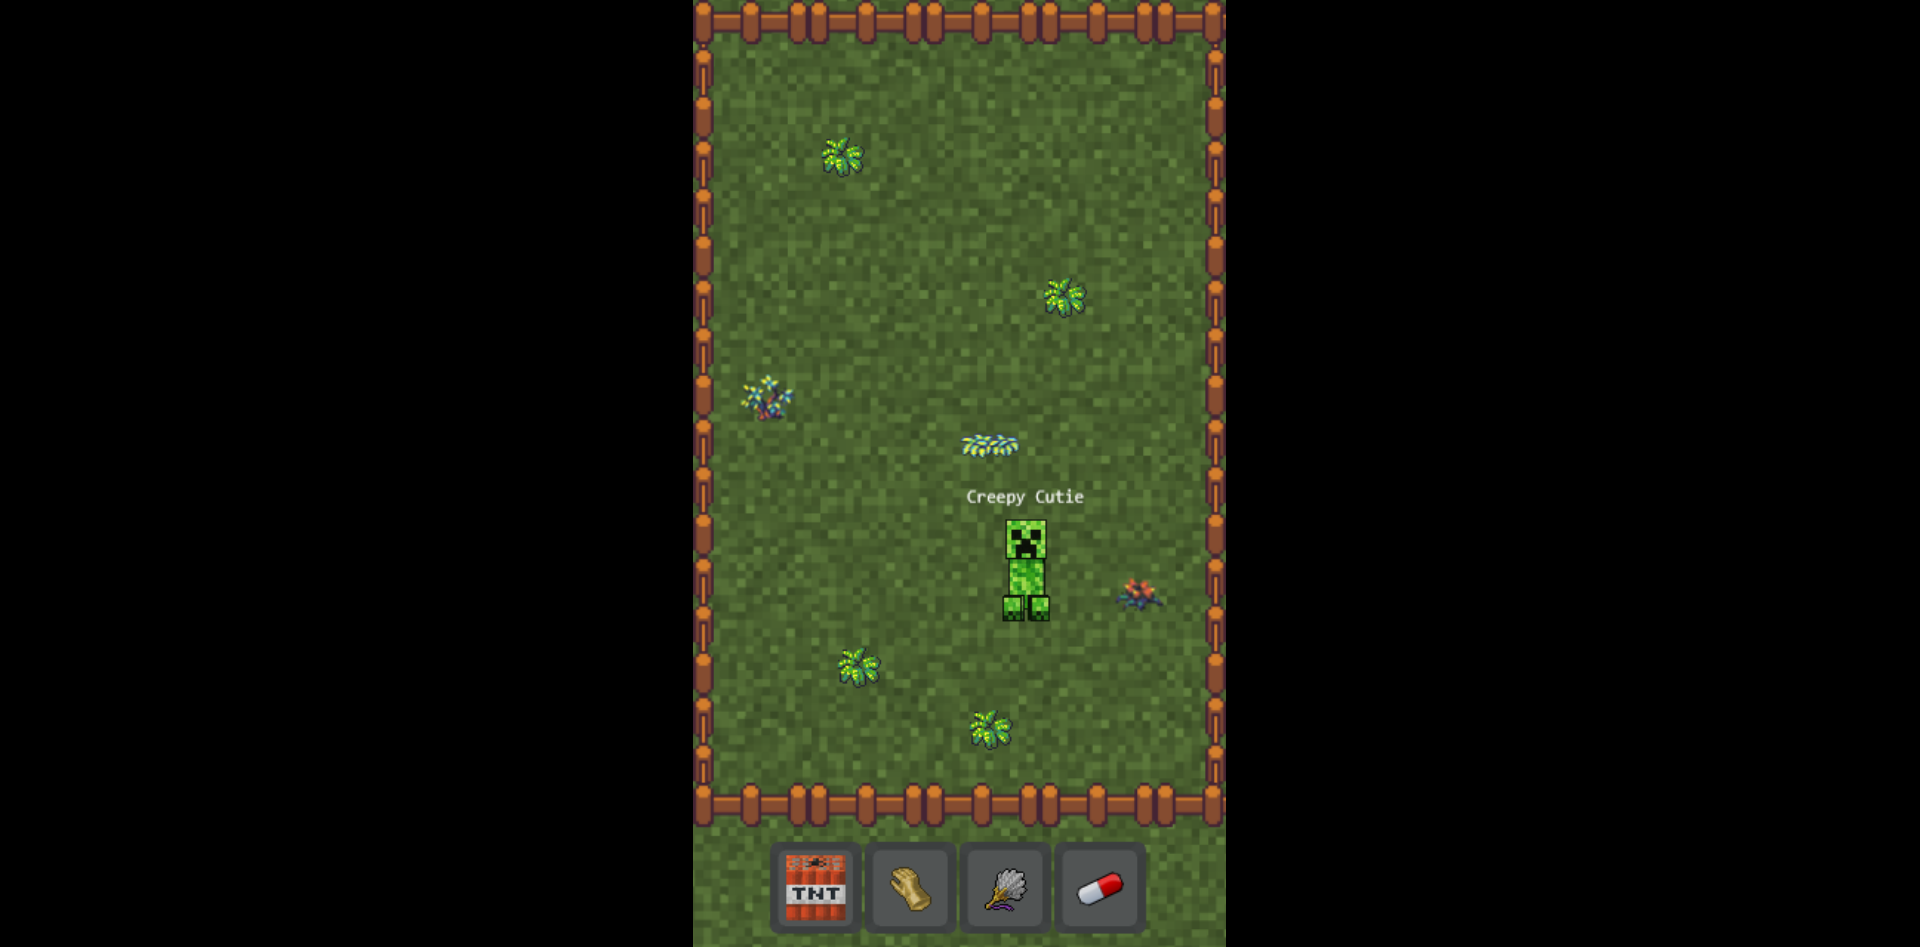
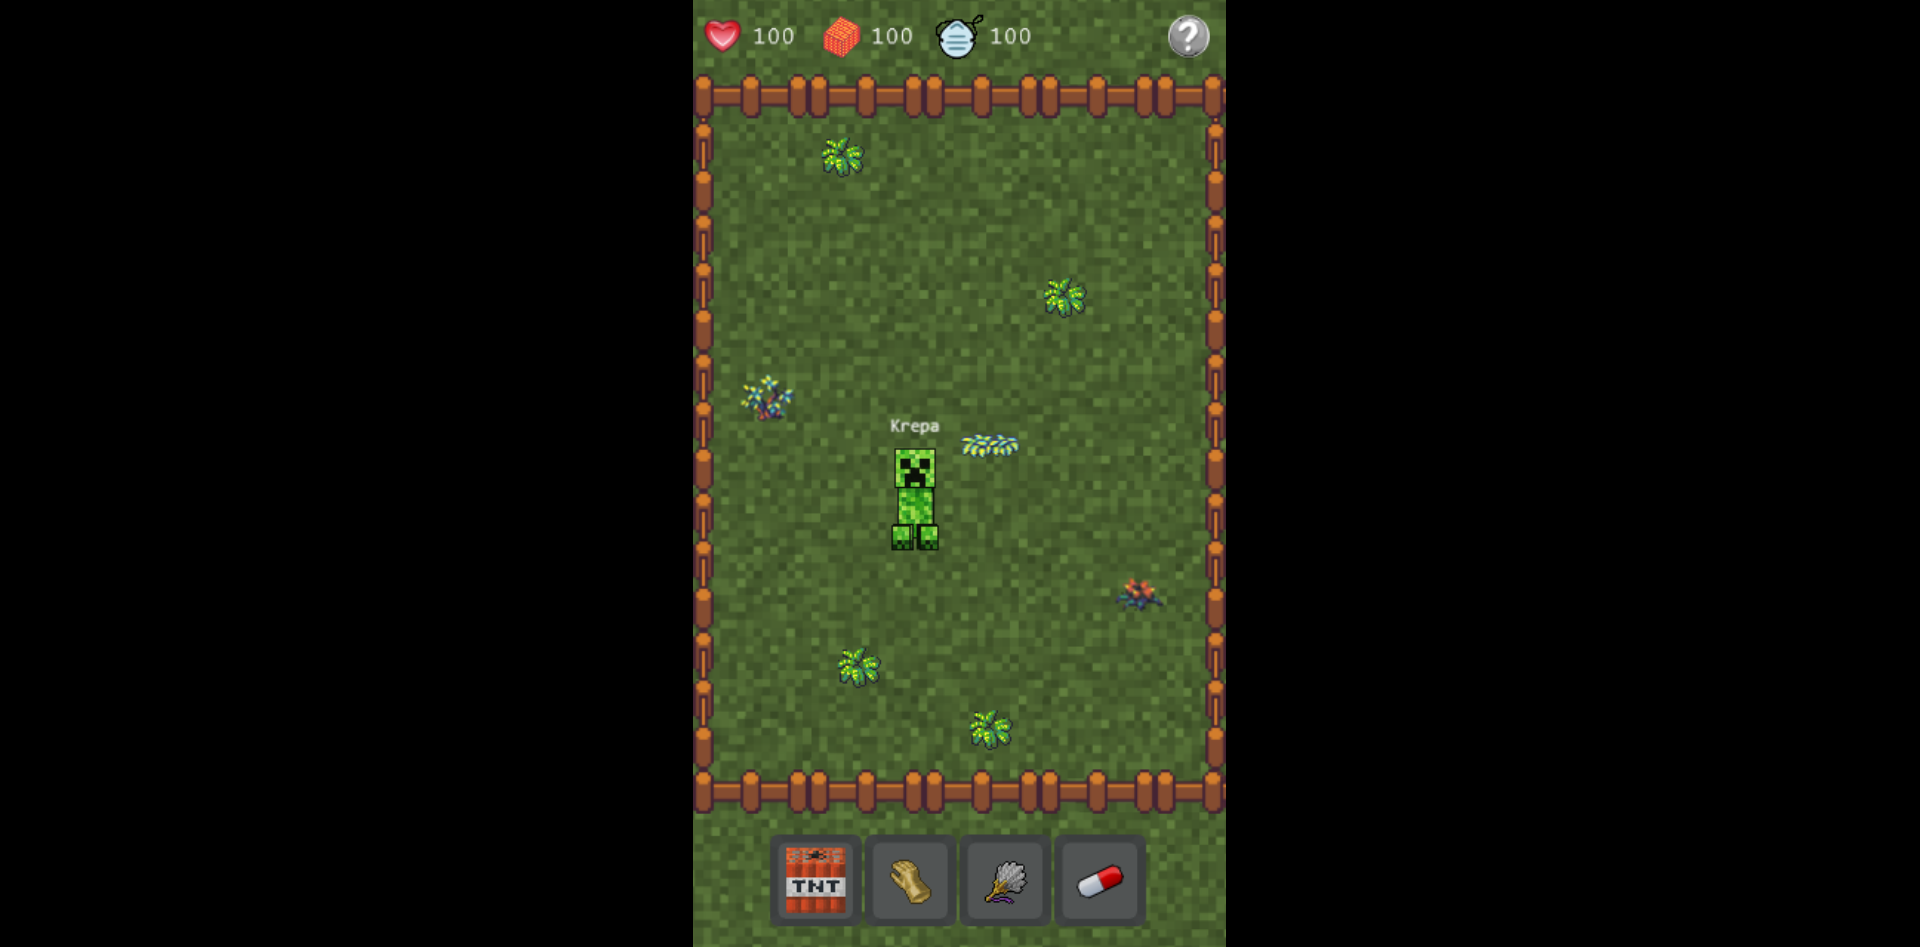
Stats menu & about info

Changed region(s): [[0.3438, 0.0, 0.6562, 1.0], [0.4375, 0.4287, 0.5625, 0.6737], [0.5625, 0.9187, 0.5938, 0.9493]]

diff --git a/public/game/game.js b/public/game/game.js
@@ -9,6 +9,11 @@ class MyGame extends Phaser.Scene {
             this.load.image('hand', 'game/assets/sprites/hand.png');
             this.load.image('brush', 'game/assets/sprites/brush.png');
             this.load.image('pill', 'game/assets/sprites/pill.png');
+            this.load.image('affection', 'game/assets/sprites/affection.png');
+            this.load.image('food', 'game/assets/sprites/food.png');
+            this.load.image('health', 'game/assets/sprites/health.png');
+            this.load.image('btn_circle', 'game/assets/sprites/btn_circle.png');
+            this.load.image('sym_help', 'game/assets/sprites/sym_help.png');
             this.load.spritesheet('krepa', 'game/assets/sprites/krepa.png', { frameWidth: 1024, frameHeight: 1536 });
             this.load.spritesheet('krepa_foot_left', 'game/assets/sprites/krepa_foot_left.png', { frameWidth: 334, frameHeight: 400 });
             this.load.spritesheet('krepa_foot_right', 'game/assets/sprites/krepa_foot_right.png', { frameWidth: 334, frameHeight: 400 });
@@ -36,22 +41,25 @@ class MyGame extends Phaser.Scene {
             this.add.image(300, 400, 'plant3');
             this.add.image(50, 270, 'plant4');
 
-            this.loadMenu();
-
-            this.fence_v_left = this.add.tileSprite(0, 0, 14, gameconfig.scale.height - 90, 'fence_v').setOrigin(0, 0);
-            this.fence_v_right = this.add.tileSprite(gameconfig.scale.width - 14, 0, 14, gameconfig.scale.height - 90, 'fence_v').setOrigin(0, 0);
-            this.fence_h_top = this.add.tileSprite(0, 0, gameconfig.scale.width, 30, 'fence_h').setOrigin(0, 0);
-            this.fence_h_bottom = this.add.tileSprite(0, gameconfig.scale.height - 111, gameconfig.scale.width, 30, 'fence_h').setOrigin(0, 0);
+            this.fence_v_left = this.add.tileSprite(0, 50, 14, gameconfig.scale.height - 140, 'fence_v').setOrigin(0, 0);
+            this.fence_v_right = this.add.tileSprite(gameconfig.scale.width - 14, 50, 14, gameconfig.scale.height - 140, 'fence_v').setOrigin(0, 0);
+            this.fence_h_top = this.add.tileSprite(0, 50, gameconfig.scale.width, 30, 'fence_h').setOrigin(0, 0);
+            this.fence_h_bottom = this.add.tileSprite(0, gameconfig.scale.height - 120, gameconfig.scale.width, 30, 'fence_h').setOrigin(0, 0);
 
             this.krepa_body = this.add.sprite(0, 0, 'krepa');
             this.krepa_foot_left = this.add.sprite(-190, this.krepa_body.height - 990, 'krepa_foot_left');
             this.krepa_foot_right = this.add.sprite(190, this.krepa_body.height - 990, 'krepa_foot_right');
 
-            this.krepa = this.add.container(Phaser.Math.Between(50, 300), Phaser.Math.Between(50, 450), [this.krepa_body, this.krepa_foot_left, this.krepa_foot_right]);
+            this.krepa = this.add.container(Phaser.Math.Between(30, 320), Phaser.Math.Between(200, 450), [this.krepa_body, this.krepa_foot_left, this.krepa_foot_right]);
             this.krepa.setScale(0.05);
             this.physics.world.enable(this.krepa);
             this.krepa.body.setCollideWorldBounds(true);
             this.krepa.body.setOffset(-640, -590);
+
+            const fenceColliderTop = this.physics.add.staticImage(0, 65, null).setSize(gameconfig.scale.width * 2, 32).setVisible(false);
+            this.physics.add.collider(this.krepa, fenceColliderTop);
+            const fenceColliderBottom = this.physics.add.staticImage(0, gameconfig.scale.height - 105, null).setSize(gameconfig.scale.width * 2, 32).setVisible(false);
+            this.physics.add.collider(this.krepa, fenceColliderBottom);
 
             this.txtKrepaName = this.add.text(0, 0, this.krepaName, {
                   fontSize: '12px',
@@ -61,6 +69,12 @@ class MyGame extends Phaser.Scene {
 
             this.krepaSpeed = 0;
             this.krepaRotation = 10.0;
+
+            this.krepaStats = {
+                  full: 100,
+                  health: 100,
+                  affection: 100
+            };
 
             this.krepaTweenFootLeft = this.tweens.add({
                   targets: this.krepa_foot_left,
@@ -99,11 +113,59 @@ class MyGame extends Phaser.Scene {
                   },
                   callbackScope: self
             });
+
+            this.loadHelp();
+            this.loadStats();
+            this.loadMenu();
       }
 
       update()
       {
             this.moveKrepa();
+            this.updateStats();
+      }
+
+      loadHelp()
+      {
+            const infoText = this.add.text(0, 0, gameconfig.about.name + " v" + gameconfig.about.version + "\nBy " + gameconfig.about.author + "\n\n" + gameconfig.about.contact + "\n\n" + gameconfig.about.description + "\n\n" + gameconfig.about.info, {
+                  fontSize: '20px',
+                  color: 'rgb(250, 250, 25)',
+                  fontFamily: 'Pixel, monospace',
+                  backgroundColor: 'rgb(50, 50, 50)',
+                  padding: { x: 10, y: 5 }
+            });
+            infoText.setInteractive();
+            infoText.on('pointerdown', function() {
+                  infoText.setVisible(false);
+            });
+            infoText.setPosition(gameconfig.scale.width / 2 - infoText.width / 2, gameconfig.scale.height / 2 - infoText.height / 2);
+            infoText.setVisible(false);
+
+            this.add.image(gameconfig.scale.width - 25, 25, 'btn_circle').setScale(0.8);
+
+            const helpAction = this.add.image(gameconfig.scale.width - 25, 25, 'sym_help').setScale(0.8).setInteractive();
+            helpAction.on('pointerdown', function() {
+                  if (infoText.visible) {
+                        infoText.setVisible(false);
+                  } else {
+                        infoText.setVisible(true);
+                  }
+                  
+            });
+            helpAction.on('pointerover', function() { helpAction.setScale(1.01); });
+            helpAction.on('pointerout', function() { helpAction.setScale(0.8); });
+      }
+
+      loadStats()
+      {
+            this.add.image(20, 25, 'affection').setScale(0.8);
+            this.txtAffectionValue = this.add.text(40, 17, this.krepaStats.affection);
+
+            this.add.image(100, 25, 'food');
+            this.txtFoodValue = this.add.text(120, 17, this.krepaStats.full);
+
+            this.add.image(180, 25, 'health');
+            this.txtHealthValue = this.add.text(200, 17, this.krepaStats.health);
       }
 
       loadMenu()
@@ -112,31 +174,31 @@ class MyGame extends Phaser.Scene {
 
             let iMenuStartX = 83;
             for (let i = 0; i < 4; i++) {
-                  this.add.image(iMenuStartX + i * 64, gameconfig.scale.height - 40, 'slot').setScale(0.5);
+                  this.add.image(iMenuStartX + i * 64, gameconfig.scale.height - 45, 'slot').setScale(0.5);
             }
 
-            const food = this.add.image(iMenuStartX, gameconfig.scale.height - 40 + 1, 'tnt').setScale(0.05).setInteractive();
+            const food = this.add.image(iMenuStartX, gameconfig.scale.height - 45 + 1, 'tnt').setScale(0.05).setInteractive();
             food.on('pointerdown', function() {
                   console.log('Feeding...');
             });
             food.on('pointerover', function() { food.setScale(0.055); });
             food.on('pointerout', function() { food.setScale(0.05); });
 
-            const hand = this.add.image(iMenuStartX + 64 * 1, gameconfig.scale.height - 40 + 1, 'hand').setInteractive();
+            const hand = this.add.image(iMenuStartX + 64 * 1, gameconfig.scale.height - 45 + 1, 'hand').setInteractive();
             hand.on('pointerdown', function() {
                   console.log('Petting...');
             });
             hand.on('pointerover', function() { hand.setScale(1.1); });
             hand.on('pointerout', function() { hand.setScale(1.0); });
 
-            const brush = this.add.image(iMenuStartX + 64 * 2, gameconfig.scale.height - 40 + 1, 'brush').setInteractive();
+            const brush = this.add.image(iMenuStartX + 64 * 2, gameconfig.scale.height - 45 + 1, 'brush').setInteractive();
             brush.on('pointerdown', function() {
                   console.log('Cleaning...');
             });
             brush.on('pointerover', function() { brush.setScale(1.1); });
             brush.on('pointerout', function() { brush.setScale(1.0); });
             
-            const pill = this.add.image(iMenuStartX + 64 * 3, gameconfig.scale.height - 40 + 1, 'pill').setRotation(320).setInteractive();
+            const pill = this.add.image(iMenuStartX + 64 * 3, gameconfig.scale.height - 45 + 1, 'pill').setRotation(320).setInteractive();
             pill.on('pointerdown', function() {
                   console.log('Giving meds...');
             });
@@ -176,6 +238,13 @@ class MyGame extends Phaser.Scene {
             this.txtKrepaName.setPosition(this.krepa.body.x + this.krepa.body.width / 2 - this.txtKrepaName.width / 2, this.krepa.body.y - 25);
       }
 
+      updateStats()
+      {
+            this.txtAffectionValue.text = this.krepaStats.affection;
+            this.txtFoodValue.text = this.krepaStats.full;
+            this.txtHealthValue.text = this.krepaStats.health;
+      }
+
       getConfigValue(item, defval = null)
       {
             let result = localStorage.getItem(item);
@@ -194,19 +263,27 @@ class MyGame extends Phaser.Scene {
 }
 
 const gameconfig = {
-       type: Phaser.AUTO,
-       scene: MyGame,
-       physics: {
-          default: 'arcade',
-          arcade: {
-                gravity: { y: 0 },
-                debug: true
-           }
-       },
-        scale: {
-           mode: Phaser.Scale.FIT,
-           autoCenter: Phaser.Scale.CENTER_BOTH,
-           width: 360,
-           height: 640
-     }
+      type: Phaser.AUTO,
+      scene: MyGame,
+      physics: {
+            default: 'arcade',
+            arcade: {
+                  gravity: { y: 0 },
+                  debug: true
+            }
+      },
+      scale: {
+            mode: Phaser.Scale.FIT,
+            autoCenter: Phaser.Scale.CENTER_BOTH,
+            width: 360,
+            height: 640
+      },
+      about: {
+            name: 'Krepagotchi',
+            version: '1.0',
+            author: 'Daniel Brendel',
+            contact: '',
+            description: 'Keep your Krepa as a pet',
+            info: ''
+      }
 };

diff --git a/app/views/index.php b/app/views/index.php
@@ -1,5 +1,11 @@
 <script>
     window.startGame = function() {
+        gameconfig.about.name = '{{ env('APP_NAME') }}';
+        gameconfig.about.version = '{{ env('APP_VERSION') }}';
+        gameconfig.about.author = '{{ env('APP_AUTHOR') }}';
+        gameconfig.about.contact = '{{ env('APP_CONTACT') }}';
+        gameconfig.about.description = '{{ env('APP_DESCRIPTION') }}';
+        gameconfig.about.info = "This project is a fan-made game\nand is not affiliated with\nMojang, Microsoft, Bandai,\nor any of their properties.";
         gameconfig.physics.arcade.debug = {{ env('APP_DEBUG') ? 'true' : 'false' }};
         gameconfig.scale.width = {{ env('APP_GAMERESX') }};
         gameconfig.scale.height = {{ env('APP_GAMERESY') }};
